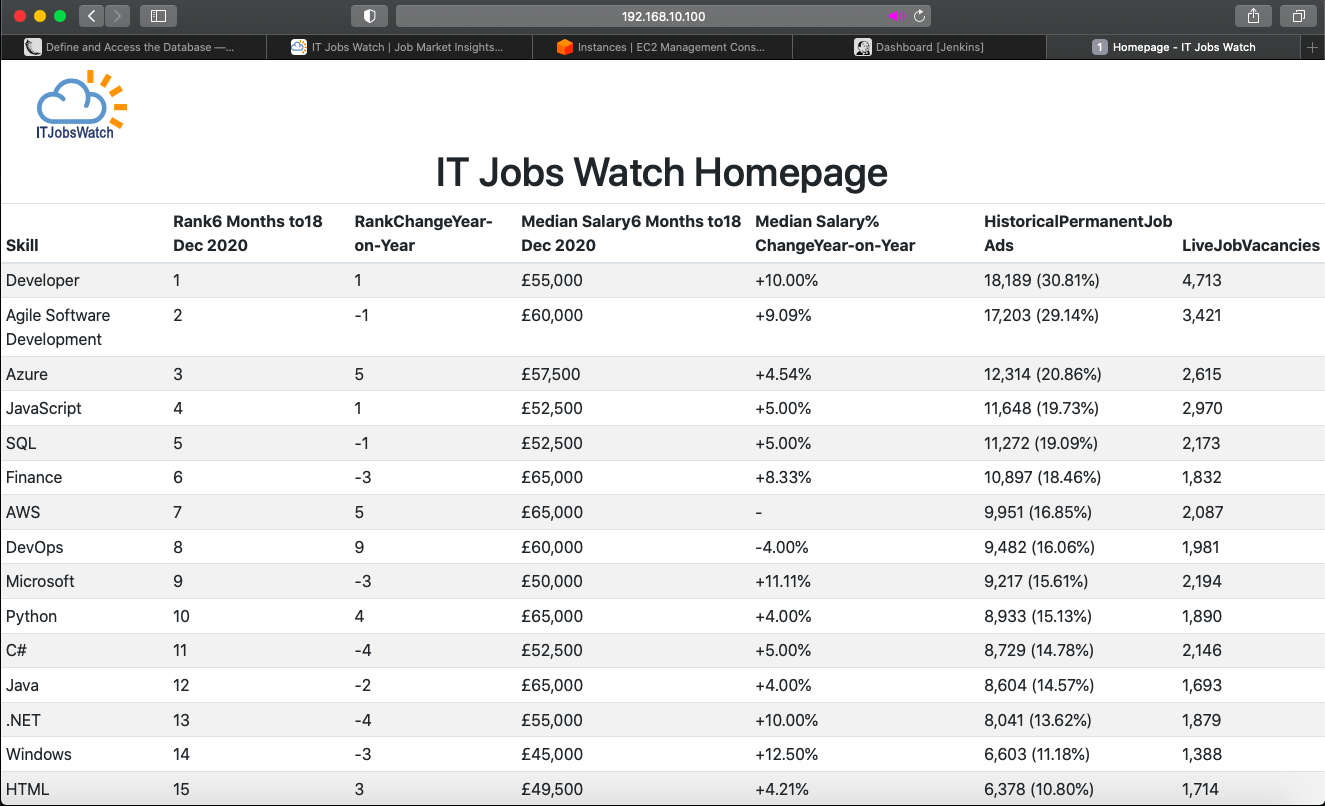
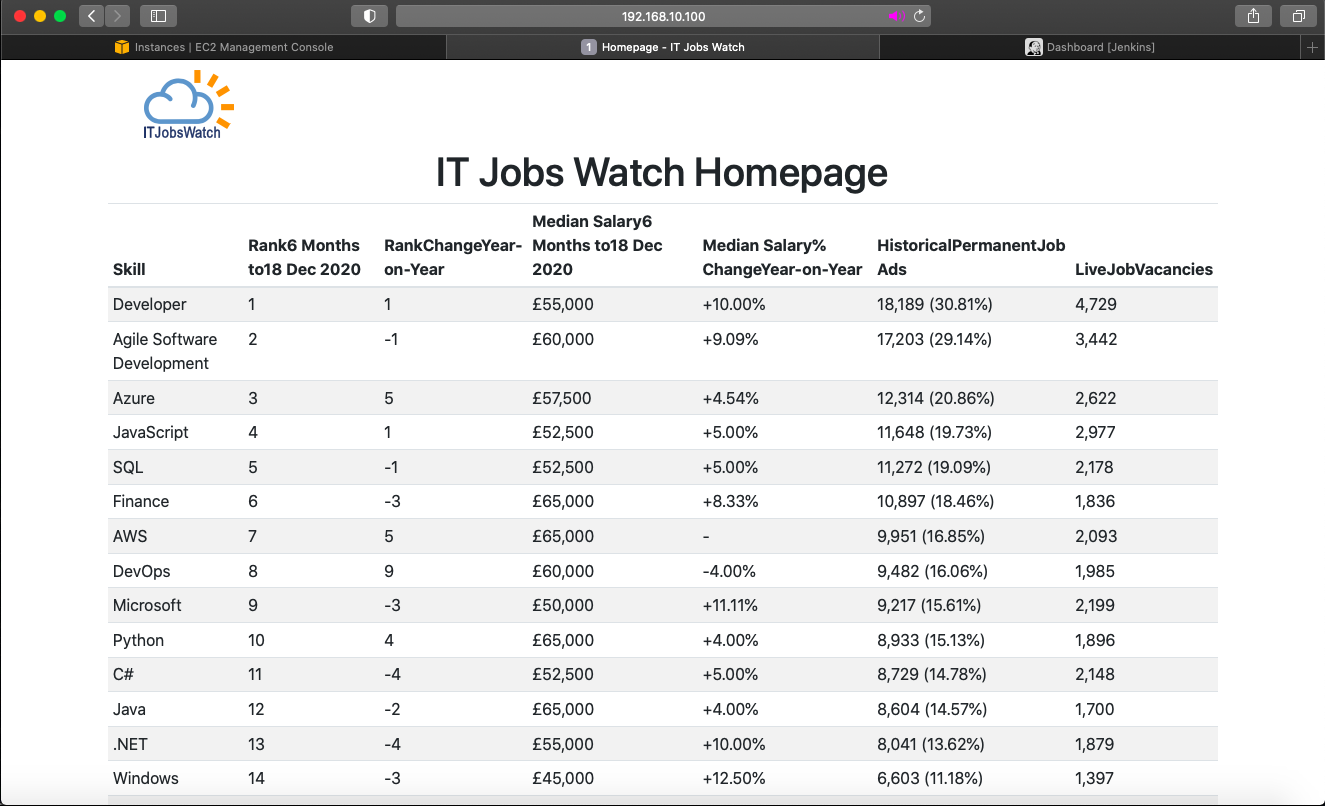
documentation on tasks

diff --git a/DevOpsProject-ItJobsWatch-master/templates/base.html b/DevOpsProject-ItJobsWatch-master/templates/base.html
@@ -13,8 +13,8 @@
 <script src="https://cdnjs.cloudflare.com/ajax/libs/popper.js/1.14.7/umd/popper.min.js" integrity="sha384-UO2eT0CpHqdSJQ6hJty5KVphtPhzWj9WO1clHTMGa3JDZwrnQq4sF86dIHNDz0W1" crossorigin="anonymous"></script>
 <script src="https://stackpath.bootstrapcdn.com/bootstrap/4.3.1/js/bootstrap.min.js" integrity="sha384-JjSmVgyd0p3pXB1rRibZUAYoIIy6OrQ6VrjIEaFf/nJGzIxFDsf4x0xIM+B07jRM" crossorigin="anonymous"></script>
 
-
+<div class="container"
 <div id="content",>{% block content %}{% endblock %}</div>
-
+</div>
 </body>
 </html>

diff --git a/DevOpsProject-ItJobsWatch-master/app.py b/DevOpsProject-ItJobsWatch-master/app.py
@@ -7,14 +7,6 @@ import pandas
 app = Flask(__name__)
 
 
-
-# localhost:5000 this is the default port for Flask
-# @app.route("/")
-# def login():
-#     return render_template("home.html")
-
-
-
 @app.route('/')
 def jobs():
     filename = '/home/vagrant/ItJobsWatchTop30.csv'

diff --git a/README.md b/README.md
@@ -1,29 +1,48 @@
 # Web Scraper Project
 
 ## Introduction
-This app scrapes data from ITJobsWatch and writes to a file on the local host. The aim of this project is to deploy the app on a virtual machine and build a CI/CD pipeline.
+This app scrapes data from ITJobsWatch and writes to a file on the local host. The aim of this project is to deploy the app on a virtual machine and build a CI/CD pipeline. An increment was introduced to build a front-end webpage for the app using Flask.
+This documentation will include a step-by-step of the process as well as instructions for simply cloning and running the code.
 
-## Run app on local machine
-1. Clone code and open with PyCharm.
-2. Install any package and dependencies, these can be found in the requirements.txt file.
-3. Run main.py file and confirm the app runs on the local host.
+# Step-by-Step
 
-## Running local tests
-1. Set test_env to `live` in the config.ini file
-2. Run the following command `pip3 install -U pluggy`
-3. Run
-```bash
-python -m pytest tests/
-```
-4. The following output should be displayed
+## Run app and tests  on local machine
+1. Open app with PyCharm.
+2. Install any package and dependencies, these can be found in the requirements.txt file but PyCharm typically prompts to do so.
+3. Run the following command `pip3 install -U pluggy` to update pluggy to the latest version.
+4. Run `python3 main.py` and confirm the app is running i.e. a user interface is presented and files are downloaded as expected.
+5. Navigate to config.ini file and set test_env to `live`.
+6. Run tests with `python3 -m pytest tests/ `
+7. The following output should be displayed
 ![local tests](images/local_tests.png)
 
+## Running on Dev environment
+1. Clone the app files into a new directory.
+2. Run `vagrant init` to create a Vagrantfile
+3. Configure the Vagrantfile as follows:
+```ruby
+# Install required plugins
+required_plugins = ["vagrant-hostsupdater"]
+required_plugins.each do |plugin|
+    exec "vagrant plugin install #{plugin}" unless Vagrant.has_plugin? plugin
+end
 
-## CI Pipeline
-1. Navigate to Jenkins
-2. Configure the job.
-3. Add the following commands to the build step
+Vagrant.configure("2") do |config|
+  # Configure box name
+  config.vm.box = "ubuntu/bionic64"
+  # Configure network
+  config.vm.network "private_network", ip: "192.168.10.100"
+  config.hostsupdater.aliases = ["development.local"]
+  # Sync the app folder(not copying in, syncing so is we make changes in the vm, reflected here too)
+  config.vm.synced_folder"/Users/aminahahmed/AWS/deploy_web_scraper/DevOpsProject-ItJobsWatch-master", "/home/ubuntu/"
+  # Provision the vm with a provisioning file
+  config.vm.provision "shell", path: "provision.sh"
+
+end
+```
+4. Create a provisioning file ensuring it is in the same location specified in the Vagrantfile. The provisioning file is as follows:
 ```bash
+# Update source list
 sudo apt-get update
 # Install python pip module
 sudo apt-get install python3-pip -y
@@ -32,66 +51,115 @@ pip3 install -U pytest
 # Install BeautifulSoup4
 sudo pip3 install BeautifulSoup4
 ```
+5. Run `vagrant up` and `vagrant ssh`
+6. Navigate to location of app files `cd /home/ubuntu`
+7. Amend the cmd_user_interface.py and top_30_csv_generator.py files to write to the home directory `~/`, not Downloads as this directory does not exist on the vagrant machine.
+8. Amend the test_csv_generator.py test to also reflect the new write location.
+9. Run `python3 main.py`. Confirm the app is running as expected.
+10. Run `python3 -m pytest tests/` and confirm the tests are all passing as shown.    
+![dev_testing](images/dev_tests.png)
 
-Testing 1    
-Testing 2    
-Testing 3 - checking failures are not pushed to main
+
+## CI Pipeline
+1. Navigate to Jenkins
+2. Select 'new item' and configure as shown below. For a more in-depth explanation, visit this repository.
+3. General    
+![general](images/ci_general.png)
+4. Office 365 Connector    
+![office_365](images/ci_office_365.png)
+5. Source Code Management
+![source code](images/ci_source_code.png)    
+6. Build Triggers     
+![triggers](images/ci_build_triggers.png)   
+7. Build Environment    
+![build env](images/ci_build_env.png)
+8. Build    
+![build](images/ci_build.png)     
+9. Post-Build Actions      
+![post build](images/ci_post_build.png)
+10. Create a webhook for your repository. Select the repository `settings`, `webhooks` and `add webhook`. Configure as shown:
+![webhook](images/webhook.png)
+11. Verify pipeline. Push changes to dev branch and confirm whether only successful builds result in merges with main.
+  * Testing 1    
+  * Testing 2    
+  * Testing 3 - checking failures are not pushed to main
 
 
 ## Ansible Playbook Deployment
-# Ansible Configure Testing
-```yaml
----
-- name: provision web scraper app
-  hosts: host_app
-  gather_facts: yes
-  become: True
-  become_user: root
-  become_method: sudo
-  vars:
-    DB_HOST: db_private_ip
+### VPC and Subnets
+1. Navigate to the AWS Management Console   
+2. Select VPC from services and create a new VPC.
+![VPC](images/vpc.png)   
+3. Navigate to subnets and select 'create'.
+4. Select you VPC id and proceed to create a public subnet.
+![subnets](images/subnets.png)
+5. Navigate to Network ACLs and select 'Create network ACL'. Give a name, select your VPC and click create.
+6. Proceed to configure rules for the ACLs.
+7. Navigate to Internet gateways and create a new gateway. Attach this to your VPC by selecting the gateway, clicking 'Actions' and selecting 'Attach to VPC' from the drop-down.
+8. Navigate to route tables. Click 'create route table', give a name and select your vpc.
+9. Select the route table
+10. Edit routes to add a destination for 0.0.0.0/0 which is targeted at the internet gateway.
+11. Edit subnet associations to include your public subnet.
 
-  tasks:
-    - name: apt update and upgrade
-      apt:
-        upgrade: "yes"
-        update_cache: "yes"
-        cache_valid_time: 86400
 
-    - name: install list of packages
-      apt:
-        pkg:
-        - python3
-        - python3-pip
-        state: present
-
-    - name: Copy app files
-      copy:
-        src: /home/ubuntu/DevOpsProject-ItJobsWatch-master
-        dest: /home/ubuntu/
-        force: no
-
-    - name: Install Pytest and BeautifulSoup4 using pip3
-      pip:
-        name:
-          - pytest
-          - BeautifulSoup4
-
-    - name: Run tests
-     # become: yes
-      shell: python3 -m pytest tests/
-      args:
-        chdir: /home/ubuntu/DevOpsProject-ItJobsWatch-master
-
+### EC2
+1. Navigate to EC2.
+2. Create an instance for the controller, following the steps shown below.
+  1. Select an Amazon Machine Image   
+  ![AMI](images/ami.png)
+  2. Choose Instance Type
+  ![Instance type](images/instance_type.png)
+  3. Configure Instance
+  ![Config](images/config_instance.png)
+  4. Add Storage - leave as default
+  5. Add Tags
+  ![Tags](images/tags.png)
+  6. Configure Security Group
+  ![SG](images/sg.png)
+  7. Review and Launch
+3. Connect to the instance
+4. Change the name of the instance by running the following command.
 ```
-
-### Ansible EC2 Creation
-2. Create the following directory called group_vars/all
-3. Create an Ansible Vault in this location using the following command:
-```yaml
-ansible-vault create file.yml
+sudo hostnamectl set-hostname new_name
+sudo reboot
 ```
-4. Copy the following code into your EC2 Playbook
+5. You may need to logout and re-connect for this command to take effect.
+6. Copy the app files into the instance
+```bash
+scp -i ~/.ssh/keyname.pem -r foldername ubuntu@ip:~/location
+```
+7. Copy the key files into a secure location
+```bash
+scp -i ~/.ssh/keyname.pem keyname.pem ubuntu@ip:~/.ssh/
+```
+6. Run the provision file, this may require giving execute permission first, `chmod +x provision.sh` and then running `./provision.sh`
+7. Run `python3 main.py` and `python3 -m pytest tests/ ` to check the app runs tests have passed.
+
+
+## Ansible
+1. Inside the controller instance, install Ansible using the following commands:
+```bash
+sudo apt update
+sudo apt install software-properties-common
+sudo apt-add-repository --yes --update ppa:ansible/ansible
+sudo apt install ansible
+```
+2. Navigate to hosts `cd etc/ansible`
+3. Add a localhost to the hosts file.
+4. Create folder called group_vars/all
+5. Create an Ansible vault to store the location of the access keys
+```bash
+ansible-vault create aws_keys.yml
+```
+6. Give permissions to the keys so they can be accessed later.
+```bash
+chmod 666 aws_keys
+chmod +x aws_keys
+```
+7. Create a directory for playbooks.
+
+### Create EC2 Playbook
+1. Copy the following code into your EC2 Playbook
 ```yaml
 ---
 - hosts: local
@@ -156,20 +224,104 @@ ansible-vault create file.yml
 ```
 ansible-playbook create_ec2.yml --ask-vault-pass --tags create_ec2
 ```
+4. Confirm the instance has been created in the AWS Management Console.
 
-### Tests
-* Testing CD pipeline   
-* Testing CD pipeline 2
-* Testing CD pipline 3 - new instance
-* Testing CD pipeline 4
-* Testing cd pipeline 5 - addition of flask files 
+### Provision Test Machine Playbook
+1. Once the host has been created, add as a new host.
+2. Navigate to `cd/etc/ansible` and run `sudo nano hosts` to add a new host.
+3. Add the following to the host file
+```
+[host_app]
+host_private_ip ansible_connection=ssh ansible_ssh_private_key_file=/home/ubuntu/.ssh/key_name.pem
+```
+4. Confirm the host can be accessed by running a ping command
+```bash
+ansible host_app -m ping
+```
+5. Return to playbook directory and create a new playbook for provisioning a test machine.
+6. Copy the following code:
+
+```yaml
+---
+- name: provision web scraper app
+  hosts: host_app
+  gather_facts: yes
+  become: True
+  become_user: root
+  become_method: sudo
+  vars:
+    DB_HOST: db_private_ip
+
+  tasks:
+    - name: apt update and upgrade
+      apt:
+        upgrade: "yes"
+        update_cache: "yes"
+        cache_valid_time: 86400
+
+    - name: install list of packages
+      apt:
+        pkg:
+        - python3
+        - python3-pip
+        state: present
+
+    - name: Copy app files
+      copy:
+        src: /home/ubuntu/DevOpsProject-ItJobsWatch-master
+        dest: /home/ubuntu/
+        force: no
+
+    - name: Install Pytest and BeautifulSoup4 using pip3
+      pip:
+        name:
+          - pytest
+          - BeautifulSoup4
+
+    - name: Run tests
+     # become: yes
+      shell: python3 -m pytest tests/
+      args:
+        chdir: /home/ubuntu/DevOpsProject-ItJobsWatch-master
+
+```
+
+## CD Pipeline
+1. Navigate to Jenkins
+2. Select 'new item' and configure as follows:
+3. General    
+![general](images/cd_general.png)
+4. Office 365 Connector    
+![office_365](images/cd_office_365.png)
+5. Source Code Management
+![source code](images/cd_scm.png)    
+6. Build Triggers     
+![triggers](images/cd_triggers.png)   
+7. Build Environment    
+![build env](images/cd_build_environment.png)
+8. Build and Post-Build   
+![build](images/cd_build_scraper.png)     
+9. Verify pipeline.
+  * Testing CD pipeline   
+  * Testing CD pipeline 2
+  * Testing CD pipline 3 - new instance
+  * Testing CD pipeline 4
+  * Testing cd pipeline 5 - addition of flask files
+
+
+
+
 
 
 ## Flask
 ### Run on local hosts
 1. Create an app.py file
 2. Create a templates folder and store a base.html file and home.html file here.
-3. Instal flask and any other dependencies such as pandas
+3. Install flask and pandas
+```bash
+sudo apt install python3-flask -y
+pip3 install pandas
+```
 4. Run flask using the command
 ```bash
 flask run
@@ -184,12 +336,13 @@ flask run
 ```bash
 pip3 install flask
 sudo apt install python3-flask -y
+pip3 install pandas
 ```
 5. Amend the app.py file to set host='0.0.0.0' to allow all incoming connections. If these repo has been cloned, this step is not necessary.
 6. Run main.py to download a csv file of ItJobsWatch, ensure the location matches the location specifed in app.py
 7. Run the following command
 
 ```bash
-flask run --host=192.168.10.100
+flask run --host=vagrant_ip
 ```     
 ![dev_env_homepage](images/running_dev.png)
